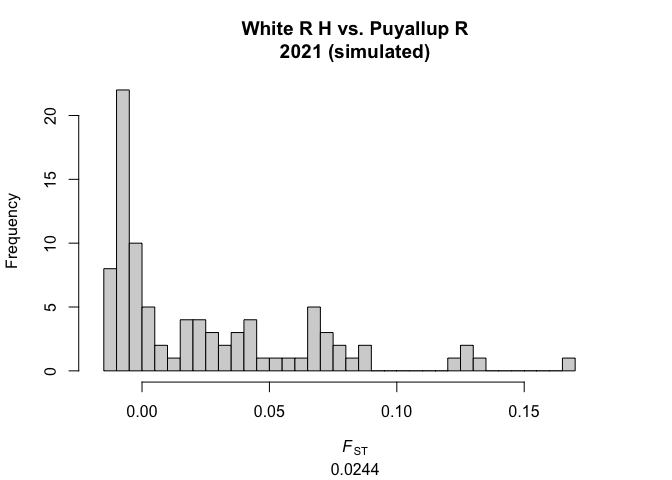
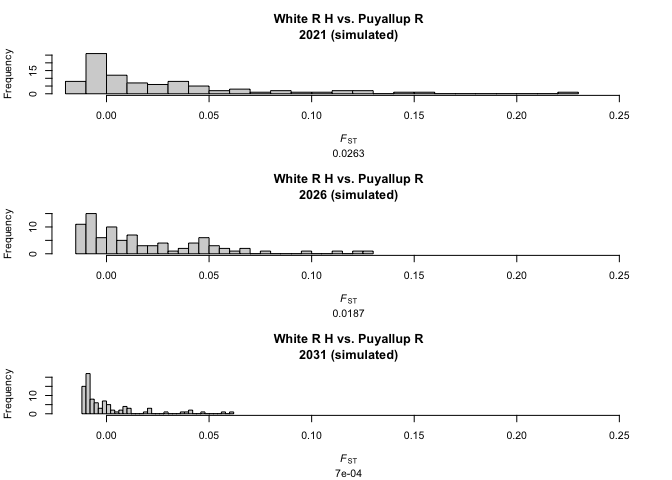
edits

diff --git a/Puyallup-conservation-measures.md b/Puyallup-conservation-measures.md
@@ -69,11 +69,13 @@ There are 94 fish in Puyallup P sample and 91 in White R sample.
 Lets randomly divide this dataset into 2 datasets.
 
 ``` r
-A <- 
-  slice_sample(loci, prop=0.5, by=population)
+set.seed(7)
 
 B <- 
-  anti_join(x=loci, y=A)
+  slice_sample(loci, prop=0.5, by=population)
+
+A <- 
+  anti_join(x=loci, y=B)
 ```
 
     ## Joining with `by = join_by(population, ots_100884_287, ots_101119_381,
@@ -97,28 +99,23 @@ B <-
     ## ots_u2446_123, ots_unk526)`
 
 ``` r
-table(A$population)
-```
-
-    ## 
-    ## Puyallup_R  White_R_H 
-    ##         47         45
-
-``` r
-table(B$population)
+table(A$population); table(B$population)
 ```
 
     ## 
     ## Puyallup_R  White_R_H 
     ##         47         46
 
-Now we have 2 datasets. The 1st dataset (“A”) has about 47 fish in the
-Puyallup R sample and about 45 fish in White R sample. The 2nd dataset
-(“B”) has about 47 fish in the Puyallup R sample and about 46 fish in
-White R sample.
+    ## 
+    ## Puyallup_R  White_R_H 
+    ##         47         45
 
-The purpose of these 2 datasets is to simulate observations at different
-time points.
+Now we have 2 datasets. The 1st dataset (“A”) has 47 fish in the
+Puyallup R sample and 46 fish in White R sample. The 2nd dataset (“B”)
+has 47 fish in the Puyallup R sample and 45 fish in White R sample.
+
+The purpose of these 2 datasets is to simulate data from different time
+points.
 
 Now lets estimate FST at these 2 simulated timepoints. FST is estimated
 for each locus independently, so we’ll get n=94 FST estimates because
@@ -137,62 +134,59 @@ Fst_B <-
 ```
 
 We take the mean of the n=94 FST estimates to get the FST value for
-reporting. This is what is meant when we say “FST equals 0.03”.. it’s
-the mean FST from multiple loci.
+reporting. This is what is meant when we say “FST = 0.026”.. it’s the
+mean FST of multiple loci.
 
 ``` r
 mean(Fst_A, na.rm=TRUE)
 ```
 
-    ## [1] 0.02442945
+    ## [1] 0.0262805
 
 ``` r
 mean(Fst_B, na.rm=TRUE)
 ```
 
-    ## [1] 0.02074568
+    ## [1] 0.01868376
 
-Hopefully these FST are different. Let’s plot the distributions with the
-means below the x-axis.
+These FSTs are different just by chance alone. Let’s plot the
+distributions with the means below the x-axis.
 
 ``` r
-hist(Fst_A, breaks=30, xlim=c(min(c(Fst_A, Fst_B), na.rm=TRUE)*1.2, max(c(Fst_A, Fst_B), na.rm=TRUE)*1.1), main="White R H vs. Puyallup R\n2021 (simulated)", sub=mean(Fst_A, na.rm=TRUE) |> round(digits=4), xlab=expression(italic(F)[ST]))
+par(mfrow=c(2, 1))
+
+hist(Fst_A, breaks=30, xlim=c(min(c(Fst_A, Fst_B), na.rm=TRUE)*1.2, max(c(Fst_A, Fst_B), na.rm=TRUE)*1.1), main="White R H vs. Puyallup R\n2021 (simulated)", sub=paste("mean:", mean(Fst_A, na.rm=TRUE) |> round(digits=4)), xlab=expression(italic(F)[ST]))
+
+hist(Fst_B, breaks=20, xlim=c(min(c(Fst_A, Fst_B), na.rm=TRUE)*1.2, max(c(Fst_A, Fst_B), na.rm=TRUE)*1.1), main="White R H vs. Puyallup R\n2026 (simulated)", sub=paste("mean:", mean(Fst_B, na.rm=TRUE) |> round(digits=4)), xlab=expression(italic(F)[ST]))
 ```
 
 ![](Puyallup-conservation-measures_files/figure-gfm/unnamed-chunk-6-1.png)<!-- -->
 
-``` r
-hist(Fst_B, breaks=30, xlim=c(min(c(Fst_A, Fst_B), na.rm=TRUE)*1.2, max(c(Fst_A, Fst_B), na.rm=TRUE)*1.1), main="White R H vs. Puyallup R\n2026 (simulated)", sub=mean(Fst_B, na.rm=TRUE) |> round(digits=4), xlab=expression(italic(F)[ST]))
-```
-
-![](Puyallup-conservation-measures_files/figure-gfm/unnamed-chunk-6-2.png)<!-- -->
-
-These distributions and mean FSTs should look slightly different. But
-are they significantly different? We need a statistical test to answer
-that question. We define our test statistic as the difference in mean
-FST observed between these 2 simulated datasets:
+These distributions and mean FSTs look slightly different. Are they
+significantly different? We need a statistical test to answer that
+question. We define our test statistic as the difference in mean FST
+observed between these 2 simulated datasets:
 
 ``` r
 mean(Fst_B, na.rm=TRUE) - 
   mean(Fst_A, na.rm=TRUE)
 ```
 
-    ## [1] -0.003683772
+    ## [1] -0.007596733
 
-Hopefully this is negative and small, which would indicate a slight
-decrease of genetic divergence between White R and Puyallup River that
-would be expected to occur by chance alone.
+This is negative and small, which would indicate a slight decrease of
+genetic divergence between White R and Puyallup River that could be
+expected to occur by chance alone.
 
 Now let’s generate a null distribution of our test statistic. We do this
-by (1) shuffling the per-locus FSTs, (2) computing the mean FST of these
-shuffled samples, (3) computing the difference of the mean FSTs (i.e.,
-the permuted test statistic), and (4) repeating steps 1-3 at least 1,000
-times.
+by (1) shuffling the FSTs between populations, (2) computing the mean
+FSTs from these shuffled samples, (3) computing the difference of the
+mean FSTs (i.e., the permuted test statistic), and (4) repeating steps
+1-3 at least 1,000 times.
 
 ``` r
 AB <- 
   c(Fst_A, Fst_B)
-
 
 permute2samplet <- 
   function(x, n_loci){
@@ -204,18 +198,21 @@ permute2samplet <-
 
 permuteAB <- rep(NA, 1000)
 
+set.seed(13)
+
 for(i in 1:1000){permuteAB[i] <- permute2samplet(x=AB, n_loci=94)}
 
 obsAB <-
   mean(Fst_B, na.rm=TRUE) - 
   mean(Fst_A, na.rm=TRUE)
 
+par(mfrow=c(1, 1))
 
 # 2-tailed p-value
 mean(abs(c(permuteAB, obsAB)) >= abs(obsAB))
 ```
 
-    ## [1] 0.5094905
+    ## [1] 0.1898102
 
 ``` r
 hist(c(permuteAB, obsAB), xlab=expression(italic(F)[ST]~differences), breaks=30, main="Permutations")
@@ -226,6 +223,8 @@ abline(v=obsAB, lty=2, col="blue")
 ![](Puyallup-conservation-measures_files/figure-gfm/unnamed-chunk-8-1.png)<!-- -->
 
 ``` r
+set.seed(2)
+
 C1 <- 
   filter(loci, population=="White_R_H") |> 
   slice_sample(prop=0.5) |> 
@@ -271,44 +270,38 @@ Fst_C <-
 mean(Fst_A, na.rm=TRUE)
 ```
 
-    ## [1] 0.02442945
+    ## [1] 0.0262805
 
 ``` r
 mean(Fst_B, na.rm=TRUE)
 ```
 
-    ## [1] 0.02074568
+    ## [1] 0.01868376
 
 ``` r
 mean(Fst_C, na.rm=TRUE)
 ```
 
-    ## [1] 0.0008845873
+    ## [1] 0.0007207086
 
 ``` r
+par(mfrow=c(3, 1))
+
 hist(Fst_A, breaks=30, xlim=c(min(c(Fst_A, Fst_B, Fst_C), na.rm=TRUE)*1.2, max(c(Fst_A, Fst_B, Fst_C), na.rm=TRUE)*1.1), main="White R H vs. Puyallup R\n2021 (simulated)", sub=mean(Fst_A, na.rm=TRUE) |> round(digits=4), xlab=expression(italic(F)[ST]))
+
+hist(Fst_B, breaks=20, xlim=c(min(c(Fst_A, Fst_B, Fst_C), na.rm=TRUE)*1.2, max(c(Fst_A, Fst_B, Fst_C), na.rm=TRUE)*1.1), main="White R H vs. Puyallup R\n2026 (simulated)", sub=mean(Fst_B, na.rm=TRUE) |> round(digits=4), xlab=expression(italic(F)[ST]))
+
+hist(Fst_C, breaks=10, xlim=c(min(c(Fst_A, Fst_B, Fst_C), na.rm=TRUE)*1.2, max(c(Fst_A, Fst_B, Fst_C), na.rm=TRUE)*1.1), main="White R H vs. Puyallup R\n2031 (simulated)", sub=mean(Fst_C, na.rm=TRUE) |> round(digits=4), xlab=expression(italic(F)[ST]))
 ```
 
-![](Puyallup-conservation-measures_files/figure-gfm/unnamed-chunk-8-2.png)<!-- -->
-
-``` r
-hist(Fst_B, breaks=30, xlim=c(min(c(Fst_A, Fst_B, Fst_C), na.rm=TRUE)*1.2, max(c(Fst_A, Fst_B, Fst_C), na.rm=TRUE)*1.1), main="White R H vs. Puyallup R\n2026 (simulated)", sub=mean(Fst_B, na.rm=TRUE) |> round(digits=4), xlab=expression(italic(F)[ST]))
-```
-
-![](Puyallup-conservation-measures_files/figure-gfm/unnamed-chunk-8-3.png)<!-- -->
-
-``` r
-hist(Fst_C, breaks=30, xlim=c(min(c(Fst_A, Fst_B, Fst_C), na.rm=TRUE)*1.2, max(c(Fst_A, Fst_B, Fst_C), na.rm=TRUE)*1.1), main="White R H vs. Puyallup R\n2031 (simulated)", sub=mean(Fst_C, na.rm=TRUE) |> round(digits=4), xlab=expression(italic(F)[ST]))
-```
-
-![](Puyallup-conservation-measures_files/figure-gfm/unnamed-chunk-8-4.png)<!-- -->
+![](Puyallup-conservation-measures_files/figure-gfm/unnamed-chunk-9-1.png)<!-- -->
 
 ``` r
 mean(Fst_C, na.rm=TRUE) - 
   mean(Fst_A, na.rm=TRUE)
 ```
 
-    ## [1] -0.02354486
+    ## [1] -0.02555979
 
 ``` r
 BC <- 
@@ -316,12 +309,17 @@ BC <-
 
 permuteBC <- rep(NA, 1000)
 
+set.seed(13)
+
 for(i in 1:1000){permuteBC[i] <- permute2samplet(x=BC, n_loci=94)}
 
 obsBC <-
   mean(Fst_C, na.rm=TRUE) - 
   mean(Fst_B, na.rm=TRUE)
+```
 
+``` r
+par(mfrow=c(1, 1))
 
 # 2-tailed p-value
 mean(abs(c(permuteBC, obsBC)) >= abs(obsBC))
@@ -330,9 +328,9 @@ mean(abs(c(permuteBC, obsBC)) >= abs(obsBC))
     ## [1] 0.000999001
 
 ``` r
-hist(c(permuteBC, obsBC), xlab=expression(italic(F)[ST]~differences), breaks=30)
+hist(c(permuteBC, obsBC), xlab=expression(italic(F)[ST]~differences), breaks=30, main=paste("p-value:", mean(abs(c(permuteBC, obsBC)) >= abs(obsBC)) |> round(digits=5)))
 
 abline(v=obsBC, lty=2, col="blue")
 ```
 
-![](Puyallup-conservation-measures_files/figure-gfm/unnamed-chunk-8-5.png)<!-- -->
+![](Puyallup-conservation-measures_files/figure-gfm/unnamed-chunk-10-1.png)<!-- -->
